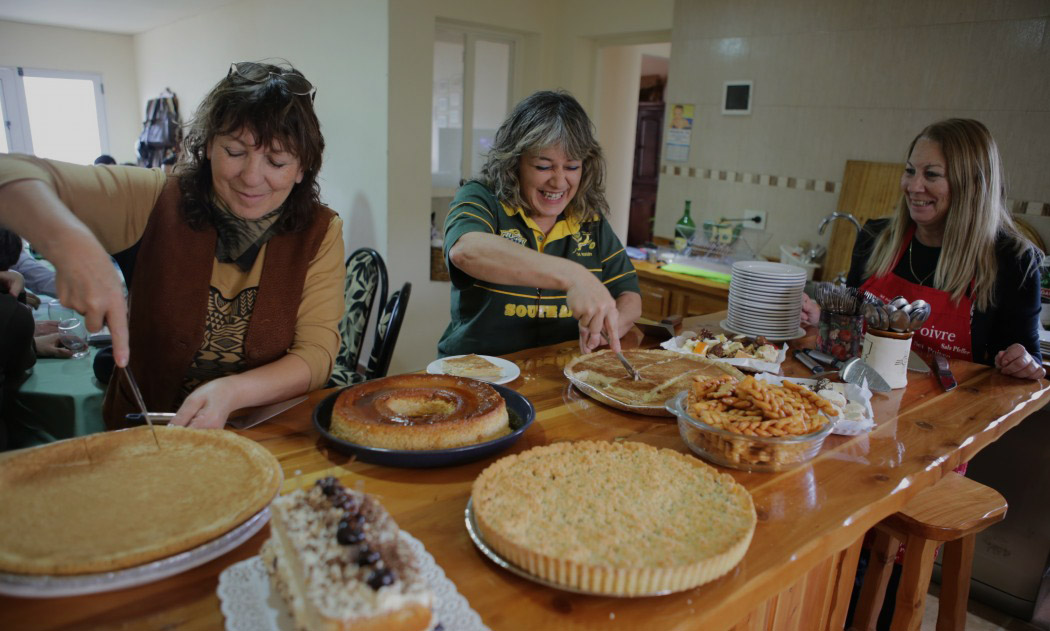
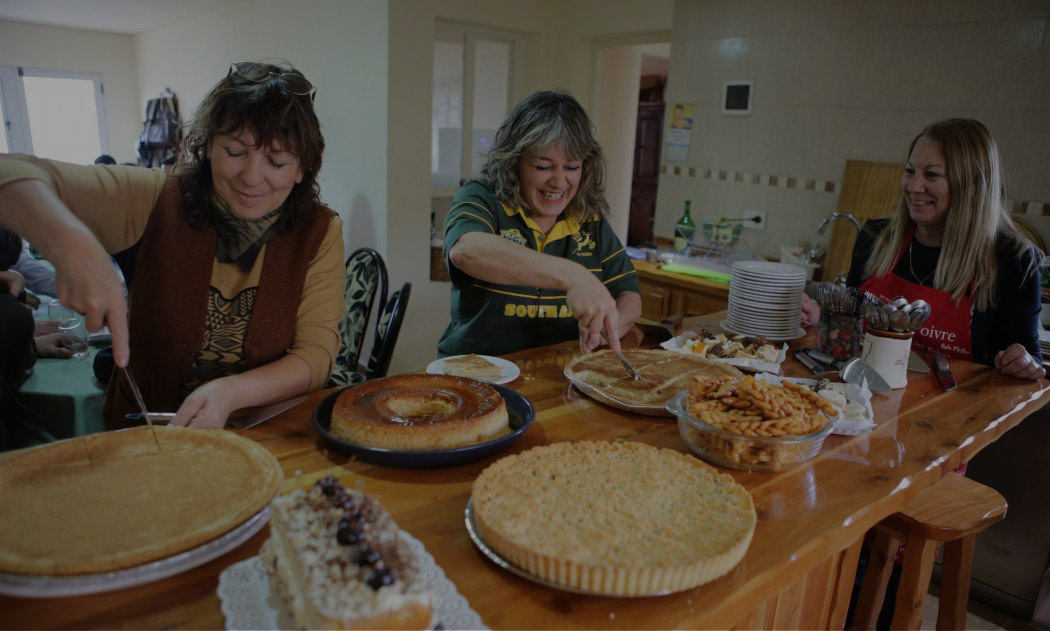
mobile view done for home page

diff --git a/index.html b/index.html
@@ -61,6 +61,7 @@
       </div>
   </nav>
 
+
   <!-- Intro Header -->
   <header class="intro">
       <div class="intro-body">
@@ -68,9 +69,9 @@
               <div class="row">
                   <div class="col-lg-12">
                     <div>
-                      <h1 style = "font-size:60px; color:white;">AFRIKAANS IN PATAGONIA</h1>
+                      <h1 style = "font-size:3em; color:white; text-shadow: 1px 1px #000;">AFRIKAANS IN PATAGONIA</h1>
                     </div>
-                      <p class="intro-text"> Interrogating Hybridity in a Unique Diasporic Community</p>
+                      <p class="intro-text" style="font-size:1.3em"> Interrogating Hybridity in a Unique Diasporic Community</p>
                       <a href="#who-are-we" class="btn btn-circle page-scroll">
                           <i class="fa fa-angle-double-down animated"></i>
                       </a>
@@ -80,13 +81,14 @@
       </div>
   </header>
 
+<div class="desktop">
   <section id ="in-between"></section>
 
   <!-- Who is the team? Section -->
   <section id="who-are-we">
-    <div align="left" style="pading-top:100px; padding-left:150px;">
-      <div>
-        <h1 width=50% style="padding-top:100px;"> Who Are We? </h1>
+    <div align="left" style="pading-top:8em; width:50%; display:inline">
+      <div style="padding-left:4em">
+        <h1 width=50% style="padding-top:100px; padding-left:2.5em"> Who Are We? </h1>
         <br><br>
         <p style="width:40%; text-align:center"> We are an interdisciplinary and inter-generational research team investigating a unique linguistic and cultural contact situation between Spanish and Afrikaans speakers in Patagonia, Argentina. Our project is funded in part by a grant from the University of Michigan Humanities Collaboratory.
           <br><br>
@@ -101,9 +103,9 @@
   <!-- What are we doing? Section -->
   <section id="what-are-we-doing">
     <div align="center" style="pading-top:150px">
-      <h1 style="padding-top:100px">What Are We Doing?</h1>
+      <h1 style="padding-top:100px; text-shadow: 1px 1px #000">What Are We Doing?</h1>
       <br><br>
-      <p style="width:40%; text-align:center">We are combining linguistic, ethnographic, and historical methods in order to explore the voices and ideologies of a displaced Afrikaans community that has resided in Patagonia, Argentina for the past 110+ years.
+      <p style="width:40%; text-align:center; text-shadow: 1px 1px #000">We are combining linguistic, ethnographic, and historical methods in order to explore the voices and ideologies of a displaced Afrikaans community that has resided in Patagonia, Argentina for the past 110+ years.
         <br><br>
         <a href="collaboration.html" class="btn btn-default">Learn About Collaboration</a>
       </p>
@@ -115,14 +117,48 @@
   <!-- Why does it matter? Section -->
   <section id="why-does-it-matter">
     <div align="right" style="padding-right:100px; pading-top:150px">
-      <h1 style="padding-top:100px"> Why is this Important? </h1>
+      <h1 style="padding-top:100px; text-shadow: 1px 1px #000"> Why is this Important? </h1>
       <br><br>
-      <p style="width:40%; text-align:center">Our research speaks to the intersection of immigration and the formation of community identity in exile. Our findings derive from an exceptional situation of cultural and linguistic contact that is not replicated in any other location in the world.
+      <p style="width:40%; text-align:center; text-shadow: 1px 1px #000">Our research speaks to the intersection of immigration and the formation of community identity in exile. Our findings derive from an exceptional situation of cultural and linguistic contact that is not replicated in any other location in the world.
         <br><br>
         <a href="community.html" class="btn btn-default">Learn About the Community</a>
       </p>
     </div>
   </section>
+
+<!--END DESKTOP-->
+</div>
+
+
+<div class="mobile">
+  <!-- Who is the team? Section -->
+  <section id="who-are-we-mobile">
+    <div align="center" style="width:50%; margin:auto; margin-right:11em; padding-top:5em; padding-bottom:5em">
+        <h4 style="text-shadow: 1px 1px #000; font-size:1em">Who Are We?</h4>
+        <p style="text-align:center; text-shadow: 1px 1px #000; font-size:0.8em">We are an interdisciplinary and inter-generational research team investigating a unique linguistic and cultural contact situation between Spanish and Afrikaans speakers in Patagonia, Argentina. Our project is funded in part by a grant from the University of Michigan Humanities Collaboratory.
+        </p>
+    </div>
+  </section>
+
+  <!-- What are we doing? Section -->
+  <section id="what-are-we-doing-mobile">
+    <div align="center" style="width:50%; margin:auto; padding-top:5em; padding-bottom:5em">
+        <h4 style="text-shadow: 1px 1px #000; font-size:1em">What Are We Doing?</h4>
+        <p style="text-align:center; text-shadow: 1px 1px #000; font-size:0.8em">We are combining linguistic, ethnographic, and historical methods in order to explore the voices and ideologies of a displaced Afrikaans community that has resided in Patagonia, Argentina for the past 110+ years.
+        </p>
+    </div>
+  </section>
+
+  <!-- Why does it matter? Section -->
+  <section id="why-does-it-matter-mobile">
+    <div align="center" style="width:50%; margin:auto; margin-left:11em; padding-top:5em; padding-bottom:5em">
+      <h4 style="text-shadow: 1px 1px #000; font-size:1em"> Why is this Important? </h4>
+      <p style="text-align:center; text-shadow: 1px 1px #000; font-size:0.8em">Our research speaks to the intersection of immigration and the formation of community identity in exile. Our findings derive from an exceptional situation of cultural and linguistic contact that is not replicated in any other location in the world.
+      </p>
+    </div>
+  </section>
+</div>
+
 
   <!-- Javascript-->
   <script src="vendor/jquery/jquery.js"></script>

diff --git a/css/stylesheet.css b/css/stylesheet.css
@@ -1,9 +1,11 @@
 /*GENERAL STYLE*/
 
-
-
 div.mobile {
   display:block;
+}
+
+div.desktop{
+  display:none;
 }
 
 @media (min-width: 640px) {
@@ -11,12 +13,16 @@ div.mobile {
   div.desktop { display: block }
 }
 
-
 #in-between {
-  height:20px;
+  height:1.6em;
 }
 
 /*INDEX STYLE*/
+
+.intro-text {
+  font-size:1em;
+  text-shadow: 1px 1px #000;
+}
 
 #who-are-we{
   -moz-background-size: cover;
@@ -25,7 +31,8 @@ div.mobile {
   background-position: top center !important;
   background-repeat: no-repeat !important;
   background-image: url("../img/background-images/TeamAbout3.jpg");
-  height:600px;
+  height:50em;
+  text-shadow: 1px 1px #000;
 }
 
 #what-are-we-doing{
@@ -35,7 +42,7 @@ div.mobile {
   background-position: top center !important;
   background-repeat: no-repeat !important;
   background-image: url("../img/background-images/MoizMallory.jpg");
-  height:600px;
+  height:50em;
 }
 
 #why-does-it-matter{
@@ -45,8 +52,24 @@ div.mobile {
   background-position: top center !important;
   background-repeat: no-repeat !important;
   background-image: url("../img/background-images/cooking.jpg");
-  height:600px;
+  height:50em;
 }
+
+#who-are-we-mobile{
+  background: url("../img/background-images/TeamAbout3.jpg") no-repeat center center;
+  background-size: 100% 30em;
+}
+
+#what-are-we-doing-mobile{
+  background: url("../img/background-images/MoizMallory.jpg") no-repeat center center;
+  background-size: 100% 30em;
+}
+
+#why-does-it-matter-mobile{
+  background: url("../img/background-images/cooking.jpg") no-repeat center center;
+  background-size: 100% 30em;
+}
+
 
 /*COMMUNITY STYLE*/
 #wrapper {
@@ -121,7 +144,7 @@ li.timeline:first-child::before {
   width: 60%;
   float:left;
   color:white;
-  font-size:20px;
+  font-size:1.8em;
   text-align:center;
   padding-left:15%;
 }
@@ -135,7 +158,7 @@ li.timeline:first-child::before {
 .icon-collab {
   color:white;
   border:1px solid #000;
-  font-size:100px;
+  font-size:8.5em;
 }
 
 .collab-people {
@@ -162,7 +185,7 @@ li.timeline:first-child::before {
   background-repeat: no-repeat !important;
   background-attachment: fixed;
   background-image: url("img/team-back.jpg");
-  height:200px;
+  height:17em;
 }
 
 img.team-image{
